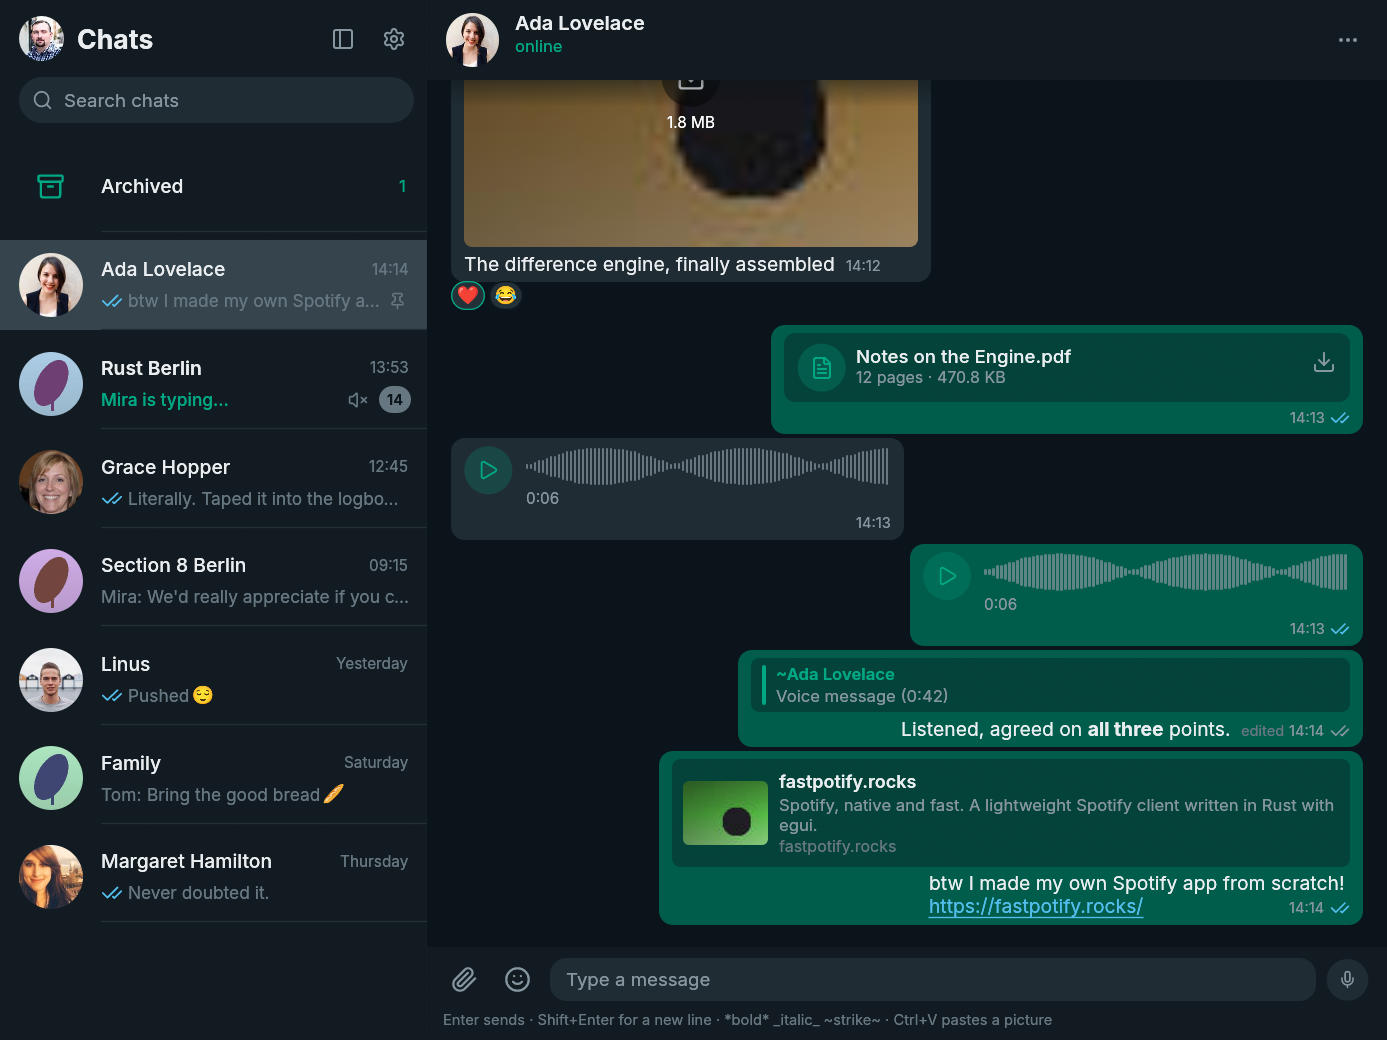
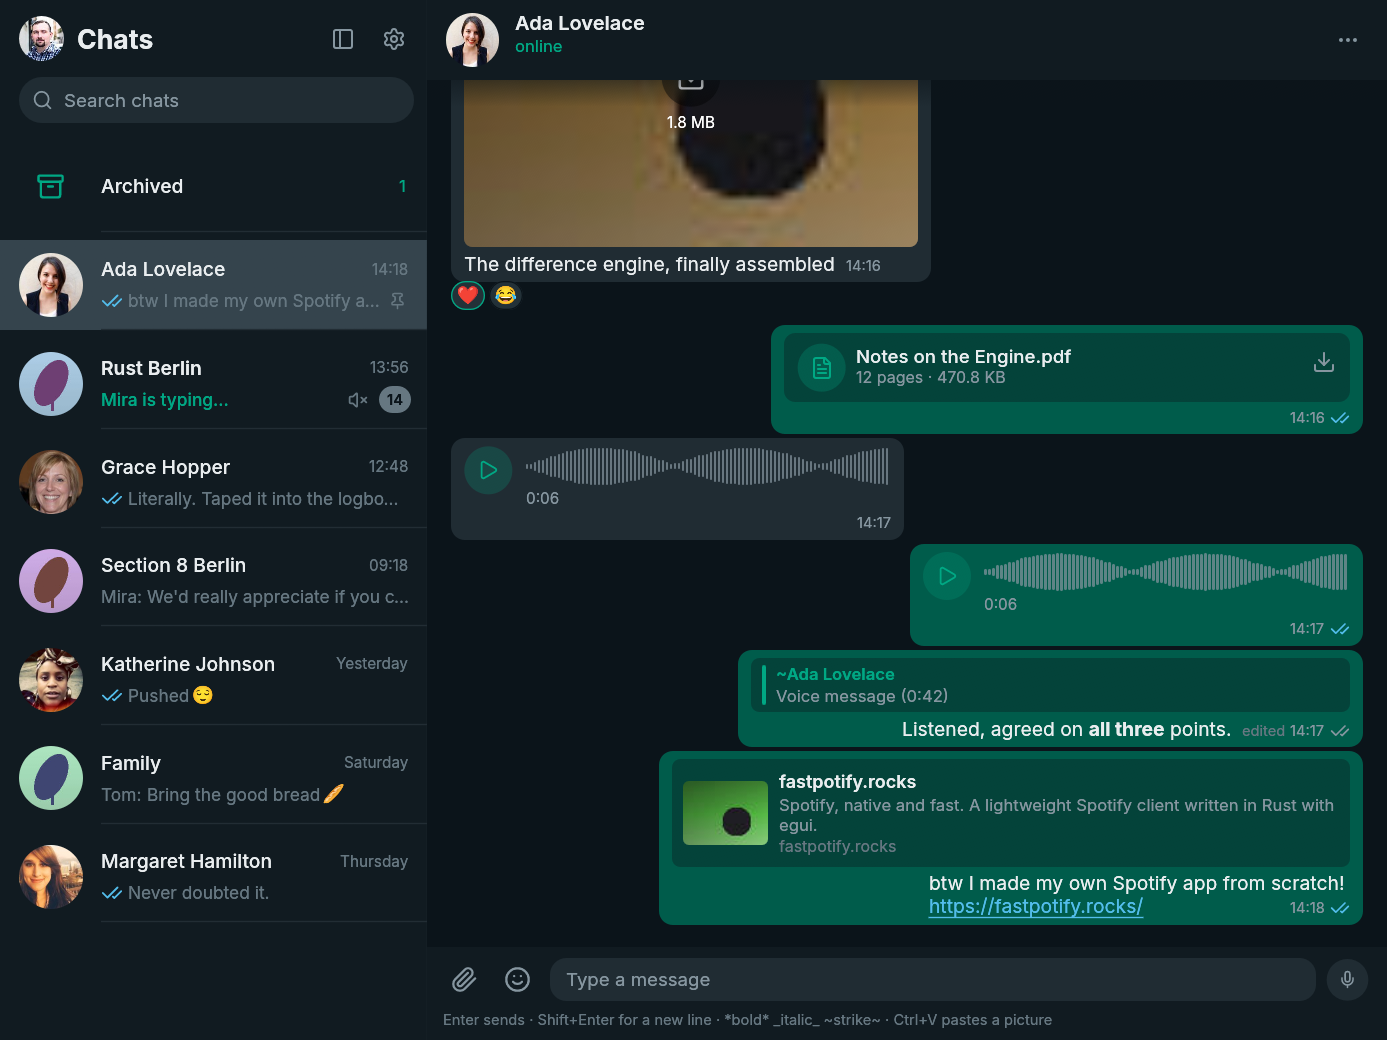
Katherine Johnson joins the sample chats
The computing pantheon in the demo grows truer to itself, and the
hero screenshot with it.

diff --git a/src/demo.rs b/src/demo.rs
@@ -104,7 +104,7 @@ const SAMPLES: &[Sample] = &[
     },
     Sample {
         id: "4915112345678@s.whatsapp.net",
-        name: "Linus",
+        name: "Katherine Johnson",
         minutes_ago: 60 * 26,
         unread: 0,
         pinned: false,
